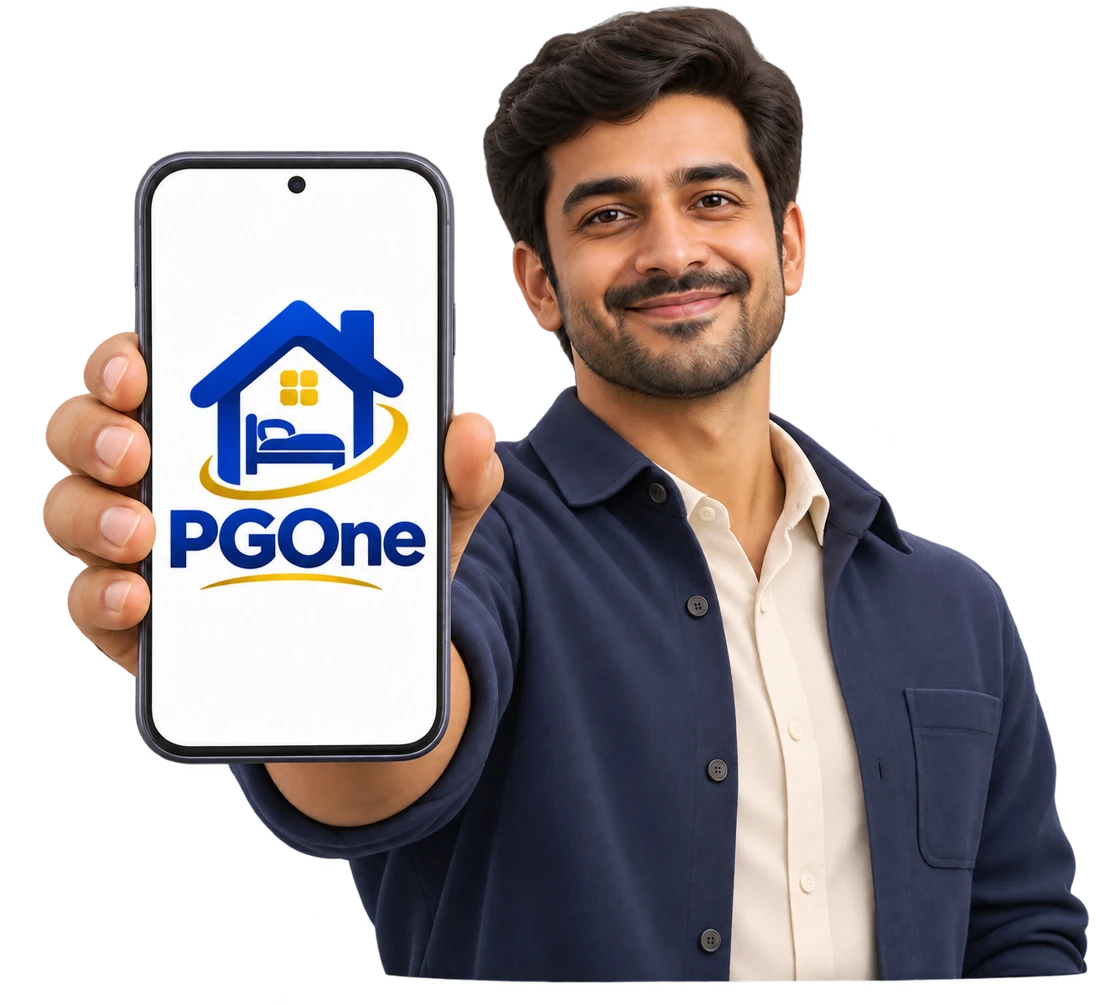
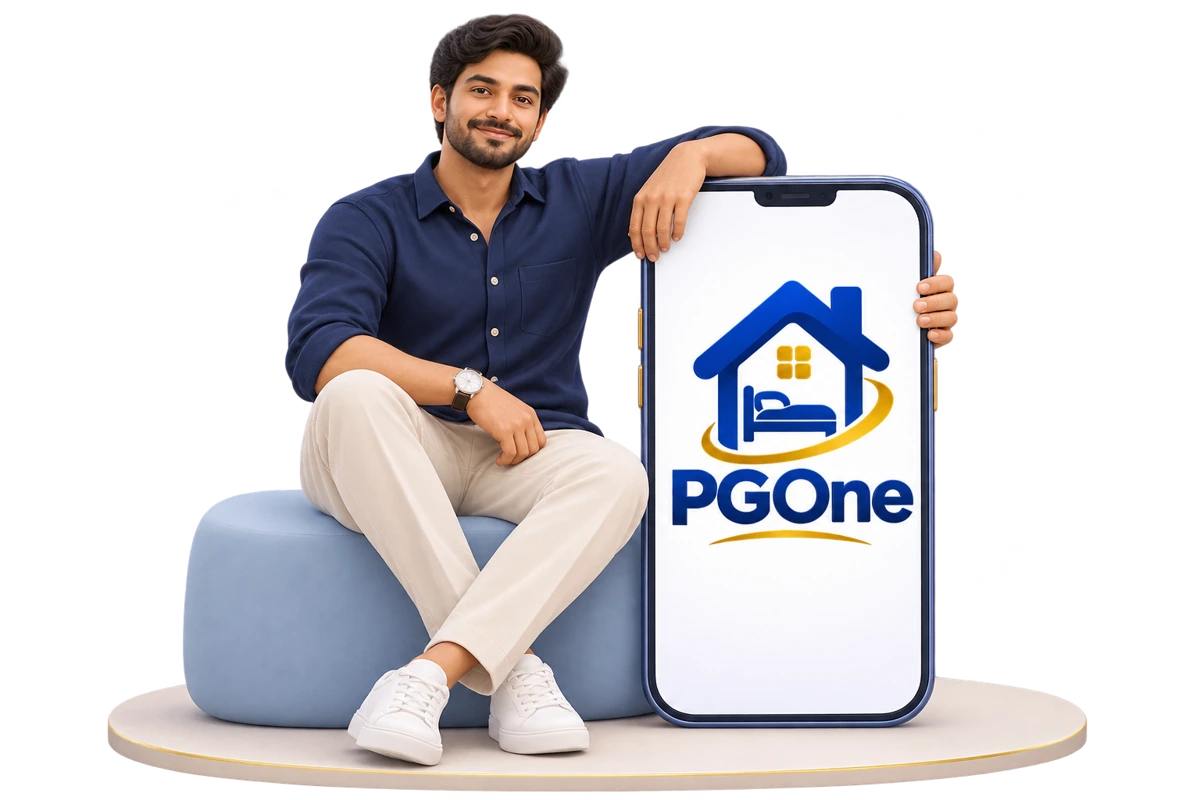
Compose a complete app-first welcome and verify reference-free HTTP confirmation

diff --git a/mobile/frontend/src/styles/product-ux.css b/mobile/frontend/src/styles/product-ux.css
@@ -237,17 +237,27 @@ button[aria-busy=true] {opacity:1;}
 .direct-collection-row fieldset { min-width: 0; margin: 8px 0 0; padding: 0; border: 0; }
 .collection-review-link { min-height: 36px; padding: 5px 10px; border-radius: 10px; background: #fff3df; color: #794813; font-size: 12px; }
 
-/* The selected PGOne guide belongs to role selection; other artwork is unchanged. */
-.entry-page {padding:22px 24px 24px;}
-.entry-page .entry-heading {margin-top:22px;}
-.entry-page .entry-heading h1 {font-size:clamp(32px,9vw,39px);line-height:1.1;}
-.entry-portrait {flex:1;min-height:220px;margin:12px 0 20px;display:flex;align-items:center;justify-content:center;}
-.entry-portrait .entry-guide {width:100%;max-width:360px;height:min(43dvh,380px);margin:0;object-fit:contain;object-position:center;animation:none;filter:none;}
-.entry-page .entry-options {gap:11px;margin-top:0;}
-.entry-page .entry-option {min-height:78px;padding:14px 16px;border-radius:20px;}
-.entry-page .entry-option strong {font-size:19px;}
-.entry-page .entry-option small {font-size:11px;}
-@media(max-height:700px){.entry-page{padding:16px 22px}.entry-page .entry-heading{margin-top:14px}.entry-page .entry-heading h1{font-size:30px}.entry-portrait{min-height:170px;margin:4px 0 8px}.entry-portrait .entry-guide{height:min(40dvh,280px)}.entry-page .entry-option{min-height:72px;padding:12px 14px}}
+/* One framed scene, one purpose and two clear next steps. */
+.entry-welcome {padding:24px 24px max(24px,env(safe-area-inset-bottom));background:radial-gradient(ellipse at 50% 32%,#edf3ff,transparent 55%),#f8faff;}
+.entry-welcome::before {display:none;}
+.entry-welcome header {display:flex;align-items:center;justify-content:space-between;height:44px;flex:0 0 44px;}
+.entry-welcome .brand {font-size:27px;}
+.entry-welcome .brand-mark {width:36px;height:36px;flex-basis:36px;}
+.entry-welcome .entry-signin {min-height:42px;padding:8px 0 8px 16px;font-size:13px;box-shadow:none;background:transparent;border:0;}
+.entry-welcome .entry-portrait {flex:1 1 280px;min-height:190px;max-height:350px;margin:20px -8px 8px;display:flex;align-items:center;justify-content:center;}
+.entry-welcome .entry-guide {width:100%;max-width:400px;height:100%;max-height:330px;object-fit:contain;object-position:center;margin:0;animation:none;filter:none;}
+.entry-welcome .entry-heading {text-align:center;margin:8px 0 22px;}
+.entry-welcome .entry-heading h1 {max-width:none;font-size:34px;line-height:1.13;letter-spacing:-1.25px;}
+.entry-welcome .entry-heading p {margin-top:11px;font-size:13px;line-height:1.5;font-weight:450;color:#63738c;letter-spacing:0;text-transform:none;}
+.entry-role-group {margin-top:auto;}
+.entry-role-label {text-align:center;font-size:11px;font-weight:600;color:#78869c;margin-bottom:10px;}
+.entry-welcome .entry-options {gap:10px;margin-top:0;}
+.entry-welcome .entry-option {min-height:76px;padding:14px 16px;border-radius:18px;}
+.entry-welcome .entry-option strong {font-size:18px;letter-spacing:-.4px;}
+.entry-welcome .entry-option small {font-size:11px;}
+.entry-welcome .entry-option > svg {width:19px;height:19px;padding:0;background:transparent;border-radius:0;}
+.entry-welcome .owner-entry::before {display:none;}
+@media(max-height:700px){.entry-welcome{padding:16px 22px}.entry-welcome .entry-portrait{min-height:150px;max-height:200px;margin:12px -8px 4px}.entry-welcome .entry-heading{margin:4px 0 16px}.entry-welcome .entry-heading h1{font-size:28px}.entry-welcome .entry-heading p{font-size:12px;margin-top:8px}.entry-welcome .entry-option{min-height:67px;padding:10px 14px}.entry-role-label{margin-bottom:8px}}
 
 .rent-status-summary {padding:20px;border-radius:22px;}
 .rent-status-summary .summary-top svg {width:20px;height:20px;}

diff --git a/mobile/frontend/src/screens/platform.js b/mobile/frontend/src/screens/platform.js
@@ -43,7 +43,7 @@ const intro = (kicker, title, text) =>
   `<div class="royal-intro">${kicker?`<span class="royal-kicker">${esc(kicker)}</span>`:""}<h1>${esc(title)}</h1>${text?`<p>${esc(text)}</p>`:""}</div>`;
 
 export function welcomeScreen(ctx) {
-  return {bare:true,title:"Welcome",content:`<main class="entry-page"><header>${brand()}</header><div class="entry-heading"><h1>Your PG.<br>Simplified.</h1><p>Manage · Stay · Pay</p></div><div class="entry-portrait"><img class="entry-residence entry-guide" src="illustration-pgone-guide.webp" alt="PGOne guide holding a phone with the PGOne logo"></div><div class="entry-options"><button class="entry-option owner-entry" data-action="entry" data-role="OWNER"><span class="entry-icon">${icon("building")}</span><span><strong>I'm an Owner</strong><small>Manage your property</small></span>${arrow}</button><button class="entry-option resident-entry" data-action="entry" data-role="RESIDENT"><span class="entry-icon">${icon("users")}</span><span><strong>I'm a Resident</strong><small>Join your PG and pay rent</small></span>${arrow}</button></div></main>`,action(name,el){if(name!=="entry")return;onboarding.intent=el.dataset.role;return ctx.navigate("signup");}};
+  return {bare:true,title:"Welcome",content:`<main class="entry-page entry-welcome"><header>${brand()}${button("Sign in",{route:"login",kind:"text-button entry-signin"})}</header><div class="entry-portrait"><img class="entry-residence entry-guide" src="illustration-pgone-guide.webp" alt="PGOne manager and phone, shown as a complete scene"></div><div class="entry-heading"><h1>PG life.<br>Made simple.</h1><p>Rooms, residents and rent.<br>All in one place.</p></div><div class="entry-role-group"><p class="entry-role-label">Continue as</p><div class="entry-options"><button class="entry-option owner-entry" data-action="entry" data-role="OWNER"><span class="entry-icon">${icon("building")}</span><span><strong>I'm an Owner</strong><small>Manage your property</small></span>${arrow}</button><button class="entry-option resident-entry" data-action="entry" data-role="RESIDENT"><span class="entry-icon">${icon("users")}</span><span><strong>I'm a Resident</strong><small>Join your PG and pay rent</small></span>${arrow}</button></div></div></main>`,action(name,el){if(name!=="entry")return;onboarding.intent=el.dataset.role;return ctx.navigate("signup");}};
 }
 export function chooseRoleScreen(ctx) {
   return {...page("Continue as",`${intro("","Choose your path","")}<div class="role-options">${[["OWNER","building","I'm an Owner"],["RESIDENT","users","I'm a Resident"]].map(([role,glyph,label])=>`<button class="role-option" data-action="role" data-role="${role}"><span class="role-icon">${icon(glyph)}</span><strong>${label}</strong>${arrow}</button>`).join("")}</div>`,"workspaces"),async action(name,el){if(name!=="role")return;onboarding.intent=el.dataset.role;await ctx.api("/api/platform/onboarding-intent",{method:"POST",body:{intent:onboarding.intent}});await ctx.refreshPlatform();return ctx.navigate(onboarding.intent==="OWNER"?"setupProfile":"joinWorkspace");}};

diff --git a/tests/platform.direct-transfers.test.ts b/tests/platform.direct-transfers.test.ts
@@ -199,9 +199,9 @@ test("actual authenticated HTTP routes keep proof private and issue a split rece
   assert.equal(queue.summary.electricityCollectedPaise,0);
   const photo=await req(`/evidence/${f.proof.id}`,owner.accessToken);assert.equal(photo.status,200);assert.equal(photo.headers.get("content-type"),"image/jpeg");assert.match(photo.headers.get("cache-control")!,/no-store/);
   assert.equal((await req(`/transfers/${transferId}/review`,resident.accessToken,{proofId:proof.id,approve:true,bankChecked:true})).status,403);
-  assert.equal((await req(`/transfers/${transferId}/review`,owner.accessToken,{proofId:proof.id,approve:true,bankChecked:true})).status,400);
+  assert.equal((await req(`/transfers/${transferId}/review`,owner.accessToken,{proofId:proof.id,approve:true})).status,400);
   const reconciliation={year:2026,month:11,amountPaise:915124,bankChecked:true,payments:[
-   {transferId,proofId:proof.id,bankReference:"123456789012"},
+   {transferId,proofId:proof.id},
   ]};
   assert.equal((await req("/owner/reconcile",resident.accessToken,reconciliation)).status,403);
   assert.equal((await req("/owner/reconcile",otherOwner.accessToken,reconciliation)).status,409);

diff --git a/docs/pgone-final-ux-20261124.md b/docs/pgone-final-ux-20261124.md
@@ -33,13 +33,25 @@ The migration only removes the approved-proof UTR requirement; it keeps existing
 reviewer/time, state, receipt, allocation and unique-key constraints and does not
 rewrite historical financial records.
 
-The role-selection artwork uses the user-selected man holding a phone, edited
-with the current PGOne logo. The source was generated with the built-in image
-tool, then converted to a bounded WebP retaining alpha. Other screen artwork is
-unchanged. Project asset: mobile/frontend/src/assets/illustrations/pgone-guide.webp.
-Generation direction: one welcoming Indian PG manager in a navy overshirt,
-holding a single front-facing phone; current blue house/bed, golden windows and
-swoosh, PGOne wordmark on white; preserve the character, pose and transparency.
+The original waist-up cutout was rejected in preview. The replacement is a
+complete seated manager-and-phone scene, with feet/base visible and the current
+PGOne logo. The source was generated with the built-in image tool, then converted
+to a bounded WebP retaining alpha. It uses containment rather than a cropped
+portrait. The header offers the existing Sign in route; role actions remain
+direct and grouped. Other screen artwork is unchanged. Project asset:
+mobile/frontend/src/assets/illustrations/pgone-guide.webp.
+Generation direction: one welcoming Indian PG manager in a navy shirt and ivory
+trousers, whole body and feet visible, seated beside a front-facing phone; current
+blue house/bed, golden windows and swoosh, PGOne wordmark on white; compact scene
+on transparency, no fake financial figures.
+
+The welcome composition follows the guidance to show value before actions, avoid
+unnecessary onboarding steps, group related controls, preserve a direct sign-in
+path and account for different screen sizes. The illustration style is a product
+design choice, not a claim that these sources prescribe particular artwork:
+https://developer.android.com/design/ui/mobile/guides/patterns/onboarding
+https://developer.android.com/design/ui/mobile/guides/layout-and-content/layout-basics
+https://www.nngroup.com/articles/mobile-app-onboarding/
 
 The launcher display name is PGOne. Package identity, debug/release identity and
 signing compatibility remain explicit in build metadata. Changing the display
